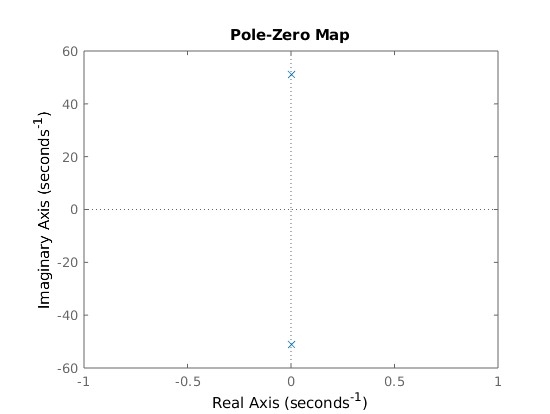
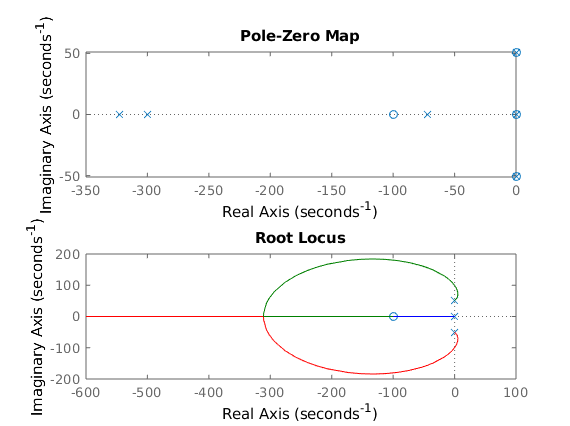
under control probably

diff --git a/html/firstSim.html b/html/firstSim.html
@@ -6,7 +6,7 @@
    <!--
 This HTML was auto-generated from MATLAB code.
 To make changes, update the MATLAB code and republish this document.
-      --><title>firstSim</title><meta name="generator" content="MATLAB 9.7"><link rel="schema.DC" href="http://purl.org/dc/elements/1.1/"><meta name="DC.date" content="2020-04-24"><meta name="DC.source" content="firstSim.m"><style type="text/css">
+      --><title>firstSim</title><meta name="generator" content="MATLAB 9.7"><link rel="schema.DC" href="http://purl.org/dc/elements/1.1/"><meta name="DC.date" content="2020-04-29"><meta name="DC.source" content="firstSim.m"><style type="text/css">
 html,body,div,span,applet,object,iframe,h1,h2,h3,h4,h5,h6,p,blockquote,pre,a,abbr,acronym,address,big,cite,code,del,dfn,em,font,img,ins,kbd,q,s,samp,small,strike,strong,sub,sup,tt,var,b,u,i,center,dl,dt,dd,ol,ul,li,fieldset,form,label,legend,table,caption,tbody,tfoot,thead,tr,th,td{margin:0;padding:0;border:0;outline:0;font-size:100%;vertical-align:baseline;background:transparent}body{line-height:1}ol,ul{list-style:none}blockquote,q{quotes:none}blockquote:before,blockquote:after,q:before,q:after{content:'';content:none}:focus{outine:0}ins{text-decoration:none}del{text-decoration:line-through}table{border-collapse:collapse;border-spacing:0}
 
 html { min-height:100%; margin-bottom:1px; }
@@ -66,7 +66,7 @@ table td { padding:7px 5px; text-align:left; vertical-align:top; border:1px soli
 
 
 
-  </style></head><body><div class="content"><h2>Contents</h2><div><ul><li><a href="#1">Magnetic Levitation Project</a></li><li><a href="#2">Visualize system</a></li></ul></div><h2 id="1">Magnetic Levitation Project</h2><p>Corey and Eamon</p><pre class="codeinput"><span class="comment">%Define variable for the system</span>
+  </style></head><body><div class="content"><h2>Contents</h2><div><ul><li><a href="#1">Magnetic Levitation Project</a></li><li><a href="#2">Closed Loop</a></li></ul></div><h2 id="1">Magnetic Levitation Project</h2><p>Corey and Eamon</p><pre class="codeinput"><span class="comment">%Define variable for the system</span>
 <span class="comment">%https://www.daycounter.com/Calculators/Magnets/Solenoid-Force-Calculator.phtml</span>
 <span class="comment">%based off of https://media.digikey.com/pdf/Data%20Sheets/Adafruit%20PDFs/3875_Web.pdf</span>
 mu = pi*4e-7;   <span class="comment">% permeability of space</span>
@@ -80,54 +80,49 @@ g = -9.81;      <span class="comment">% Acceleration due to gravity</span>
 <span class="comment">%First we chose our 'b' setpoint for voltage</span>
 <span class="comment">%And find an a that cancels out the constant</span>
 b = 5;
-a = abs(sqrt((5*mu*q1*N*A)/(4*pi*R*g)))
+a = abs(sqrt((5*mu*q1*N*A)/(4*pi*R*g)));
 
 <span class="comment">%Z allows us to use cleaner math by placing</span>
 <span class="comment">%all of our constants into one constant.</span>
-Z = (mu*q1*N*A)/(4*pi*R)
+Z = (mu*q1*N*A)/(4*pi*R);
 
 <span class="comment">%Define the system</span>
-sys = tf([Z/a^2],[1 0 Z*b/a^3])
+G = tf([Z/a^2],[1 0 Z*b/a^3]);
+</pre><h2 id="2">Closed Loop</h2><pre class="codeinput">close <span class="string">all</span>
+
+k = 354;
+kd = 1;
+kp = 200;
+ki = 10e3;
+H = 1;
+C = tf([kd,kp,ki],[1,0]);
+C = C*k
+
+<span class="comment">% Visualize system</span>
+<span class="comment">% open loop</span>
+Gol = C*G*H;
+
+<span class="comment">% close loop</span>
+CL = (C*G)/(1+C*G*H);
+
+figure
+subplot(2,1,1)
+pzmap(CL)
+subplot(2,1,2)
+rlocus(Gol)
+
+figure
+step(CL)
 </pre><pre class="codeoutput">
-a =
-
-    0.0038
-
-
-Z =
-
-   2.7714e-05
-
-
-sys =
+C =
  
-    1.962
-  ----------
-  s^2 + 2610
+  354 s^2 + 70800 s + 3.54e06
+  ---------------------------
+               s
  
 Continuous-time transfer function.
 
-</pre><h2 id="2">Visualize system</h2><pre class="codeinput">figure
-pzmap(sys)
-
-figure
-step(sys)
-
-<span class="comment">%open loop</span>
-Gol = sys-(0.001*9.8)
-
-figure
-pzmap(Gol)
-</pre><pre class="codeoutput">
-Gol =
- 
-  -0.0098 s^2 - 23.62
-  -------------------
-      s^2 + 2610
- 
-Continuous-time transfer function.
-
-</pre><img vspace="5" hspace="5" src="firstSim_01.png" alt=""> <img vspace="5" hspace="5" src="firstSim_02.png" alt=""> <img vspace="5" hspace="5" src="firstSim_03.png" alt=""> <p class="footer"><br><a href="https://www.mathworks.com/products/matlab/">Published with MATLAB&reg; R2019b</a><br></p></div><!--
+</pre><img vspace="5" hspace="5" src="firstSim_01.png" alt=""> <img vspace="5" hspace="5" src="firstSim_02.png" alt=""> <p class="footer"><br><a href="https://www.mathworks.com/products/matlab/">Published with MATLAB&reg; R2019b</a><br></p></div><!--
 ##### SOURCE BEGIN #####
 %% Magnetic Levitation Project
 % Corey and Eamon
@@ -147,27 +142,40 @@ g = -9.81;      % Acceleration due to gravity
 %First we chose our 'b' setpoint for voltage
 %And find an a that cancels out the constant
 b = 5;
-a = abs(sqrt((5*mu*q1*N*A)/(4*pi*R*g)))
+a = abs(sqrt((5*mu*q1*N*A)/(4*pi*R*g)));
 
 %Z allows us to use cleaner math by placing
 %all of our constants into one constant.
-Z = (mu*q1*N*A)/(4*pi*R)
+Z = (mu*q1*N*A)/(4*pi*R);
 
 %Define the system
-sys = tf([Z/a^2],[1 0 Z*b/a^3])
+G = tf([Z/a^2],[1 0 Z*b/a^3]);
+%% Closed Loop
+close all
 
-%% Visualize system
+k = 354;
+kd = 1;
+kp = 200;
+ki = 10e3;
+H = 1;
+C = tf([kd,kp,ki],[1,0]);
+C = C*k
+
+% Visualize system
+% open loop
+Gol = C*G*H;
+
+% close loop
+CL = (C*G)/(1+C*G*H);
+
 figure
-pzmap(sys)
+subplot(2,1,1)
+pzmap(CL)
+subplot(2,1,2)
+rlocus(Gol)
 
 figure
-step(sys)
-
-%open loop
-Gol = sys-(0.001*9.8)
-
-figure
-pzmap(Gol)
+step(CL)
 
 ##### SOURCE END #####
 --></body></html>

diff --git a/firstSim.m b/firstSim.m
@@ -25,21 +25,28 @@ Z = (mu*q1*N*A)/(4*pi*R);
 %Define the system
 G = tf([Z/a^2],[1 0 Z*b/a^3]);
 %% Closed Loop
-k = 1;
-H = 1;
-C = k;
+close all
 
+k = 354;
+kd = 1;
+kp = 200;
+ki = 10e3;
+H = 1;
+C = tf([kd,kp,ki],[1,0]);
+C = C*k
+
+% Visualize system
+% open loop
+Gol = C*G*H;
+
+% close loop
 CL = (C*G)/(1+C*G*H);
 
-%% Visualize system
 figure
-pzmap(1+C*G*H)
+subplot(2,1,1)
+pzmap(CL)
+subplot(2,1,2)
+rlocus(Gol)
 
 figure
 step(CL)
-
-%open loop
-Gol = C*G*H-(0.001*9.8);
-
-figure
-pzmap(Gol)
